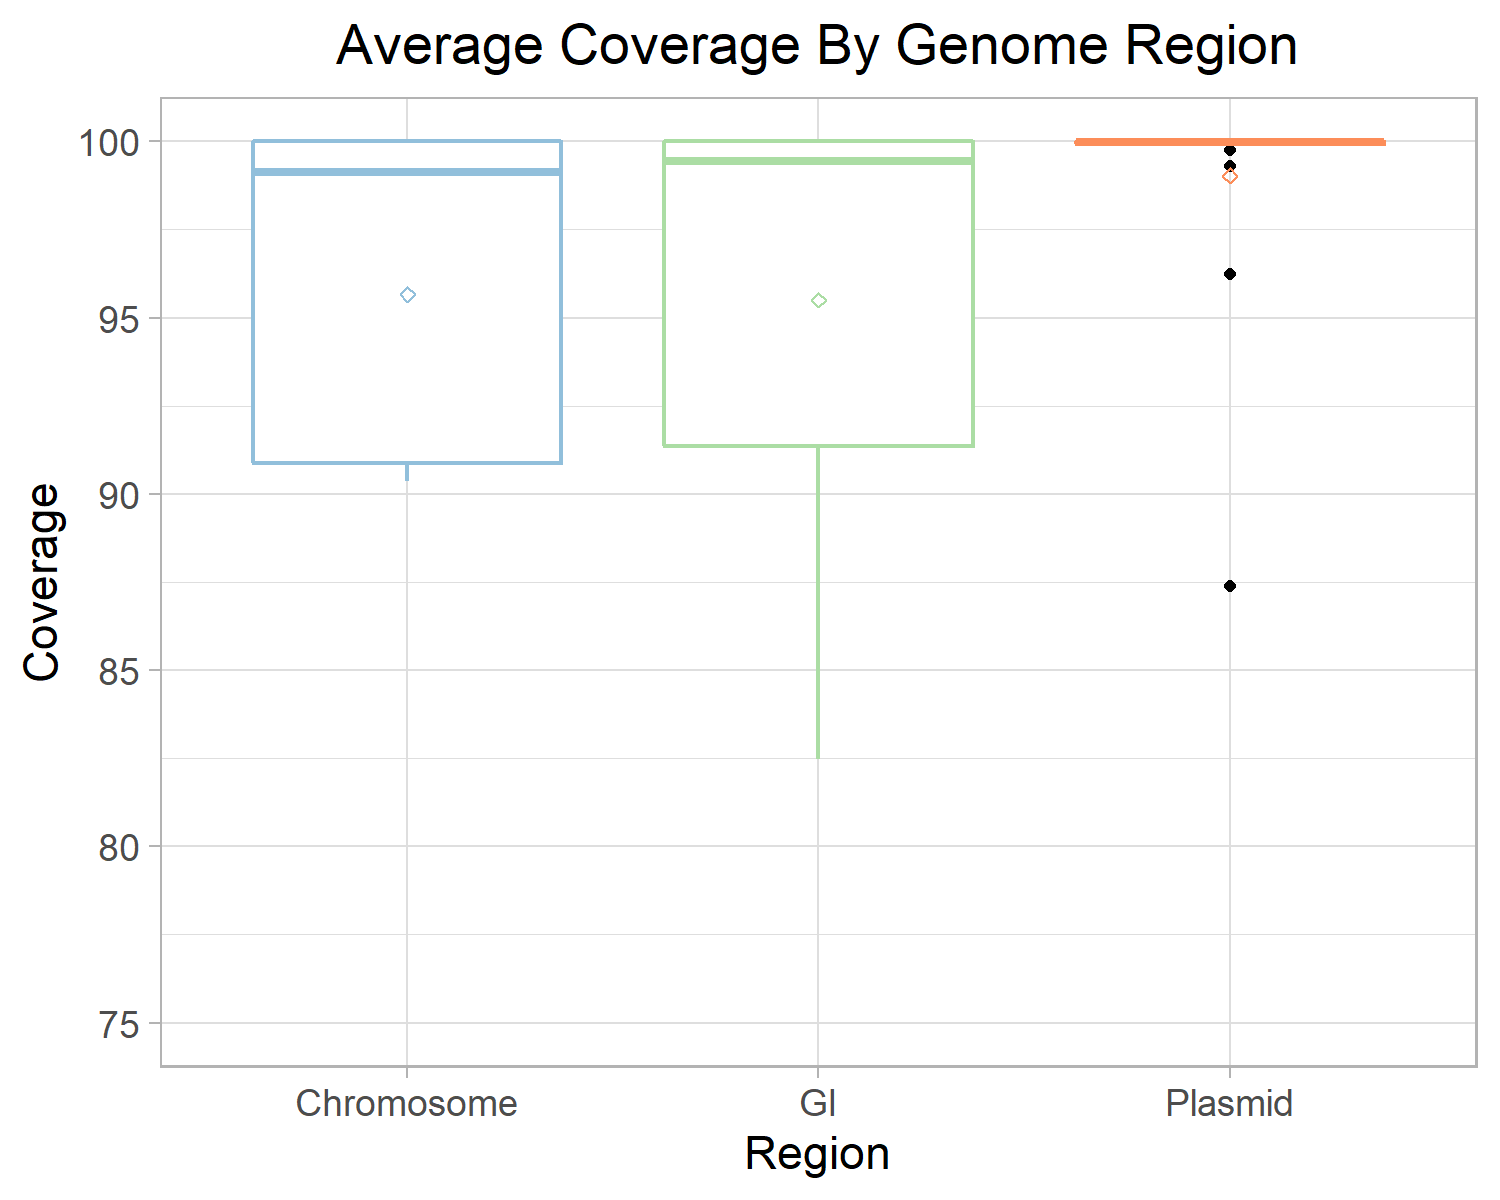
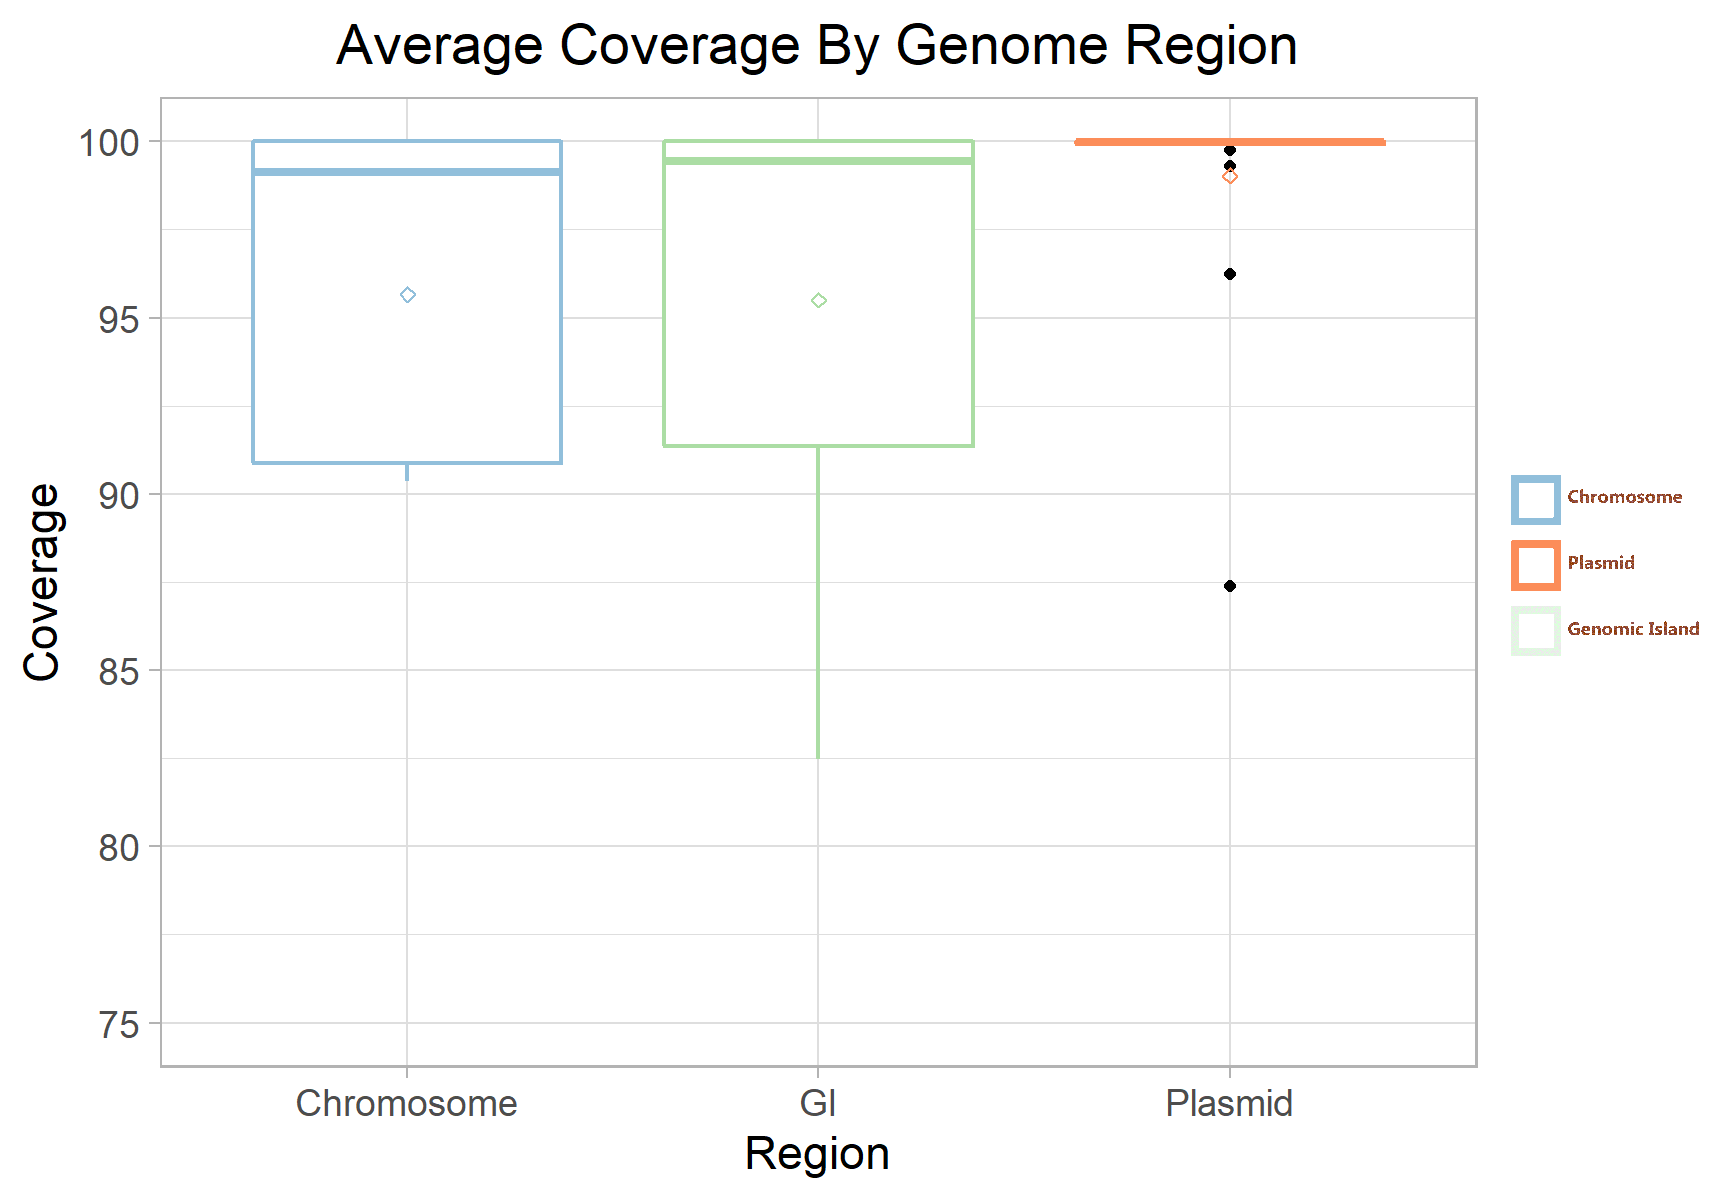
reviewers revision and read mapping figures

diff --git a/content/06.supplementals.md b/content/06.supplementals.md
@@ -34,3 +34,8 @@ This highlights that genomic components (GIs and plasmids) and plasmids in parti
 
 ![Comparison of rates of loss for different genomic components and gene types across assemblers and binning tools. Each line represents a different component as indicated by the legend with assemblers indicated by row and binning tool by column. This shows that regardless of approach genomic components (GIs and plasmids) are lost at a higher rate than individual VF or AMR genes.](images/S4_rate_of_loss.png){#fig:rateofloss, tag="S4"}
 
+![Predicted Gene Content. The total number of open reading frames (ORF) predicted followed the same trend as chromosomal coverage and purity. The assemblers (colored bars) did not contribute to variability in the number of ORFs detected. Of the 4 binners, CONCOCT recovered \<30\% of our reference genome ORFs. DASTool and MetaBAT2 predicted a similar number as our reference genomes.](images/S3_number_of_predicted_genes.png){#fig:geneContent, tag="S3"}
+
+![Average Read Depth Per Species. Across all of the reference species (facet), the read depth of plasmids (orange) is considerability higher compared to chromosomes (blue), likely due to the copy number regime we used. Genomic islands (GIs; green) exhibited a relatively lower depth compared to chromosomes. The variability in depth is also higher in GIs and plasmids.](images/DepthBySpp.png){#fig:geneContent, tag="S4"}
+
+![Per Base Read Depth Per Species. The per base (x-axis) read depth (y-axis) of each species is plotted individually. Overall, the read depth of chromosomes (blue boxes) is much lower than depth of plasmids (orange boxes), likely due to the copy number regime used. Genomic islands within the chromosome is highlighted in green. At a per base level, we not a much lower depth at the beginning and the end of each replicon as well as a higher depth variability in GIs and plasmids.](images/PerBaseDepthBySpp.png){#fig:geneContent, tag="S5"}

diff --git a/content/04.results.md b/content/04.results.md
@@ -81,5 +81,8 @@ However, 0-16% of GI-localised VF genes (n=809) and again none of the plasmid-as
 ### Comparisons of Rates of Loss
 
 We combined the performance metrics for Figs. @fig:plasmids, @fig:gis, @fig:AMRGenePercentRecoveryStageContext, and @fig:VFGenePercentRecoveryStageCombined to compare the rates of loss of different components (see Fig. [S4](#fig:rateofloss)).
-This highlighted that genomic components (GIs and plasmids) and plasmids in particular are lost at a disproportionately higher rate than individual gene types during MAG recovery.
+This highlighted that genomic components (GIs and plasmids) and plasmids in particular are lost at a disproportionately higher rate than individual gene types during MAG recovery. 
+Moreover, by analysing the distribution of our synthetically generated reads to chromosomes, genomic islands and plasmids, we found that the coverage of our synthetic metagenome reads achieved >96% on average across all reference genomes. Plasmids had the highest coverage and sequencing depth (98.4%) while GIs had the lowest (95.8%), however GIs and plasmids exhibited a higher variability in coverage and depth. (Fig. @fig:avgcoverage and Sup. Fig. [S5] @fig:DepthBySpp and [S6] @fig. PerBaseDepthBySpp)
+
+![Average Coverage By Genomic Region. The average coverage of our synthetic reads to their source genome is plotted by their genomic region. Chromosome (blue) and GI (green) exihibited a similar average coverage of ~96.5%. Plasmids (orange) had a higher average coverage at ~98%. The per-genome coverage variability of plasmids and GI is higher than chromosomes. Diamond dot indicates the mean coverage of a region and black dots indicates outliers.](images/AvgCoverage.png){#fig:avgcoverage}
 

diff --git a/content/05.discussion.md b/content/05.discussion.md
@@ -15,7 +15,7 @@ At best across all binners, 40% of all AMR genes and ~63% of VF genes (CONCOCT-m
 While a majority of chromosomally located VF genes (73-98%) and AMR genes (53%) were binned correctly, only 16% of GI VFs (n=809), 45% of GI AMR genes (n=11), and not a single plasmid associated VF (n=3) or AMR gene (n=20) were correctly binned.
 This included critical high-threat MGE-associated AMR genes such as oxacillinases (OXA) and _Klebsiella pneumoniae_ carbapenemases (KPC). 
 One potential caveat of this is that some AMR genes and VFs may no longer be detectable in MAGs due to issues with ORF prediction (see suppl. discussion & Fig. [S3](#fig:geneContent)). 
-Previous studies have observed that ORF predictions in draft genomes are more fragmented, which can lead to downstream over- or under-annotation with functional labels depending on the approach used [@doi:10.1186/1471-2164-13-14]. 
+We observed a higher variability in both the read depth and read coverage in MGEs regions (Fig. @fig:avgcoverage and Sup. Fig. [S5] @fig:DepthBySpp and [S6] @fig. PerBaseDepthBySpp). This, combined with previous studies observing fragmented ORG predictions in draft genomes, can lead to downstream over- or under-annotation with functional labels depending on the approach used [@doi:10.1186/1471-2164-13-14]. 
 Although not yet developed, methods that combine the assembly/binning pipelines tested here with read-based inference would provide a better sense of which functions are potentially being missed by the MAG reconstructions.
 
 Our simulated metagenomic community comprised 30 distinct bacterial genomes with varying degrees of relatedness. 
